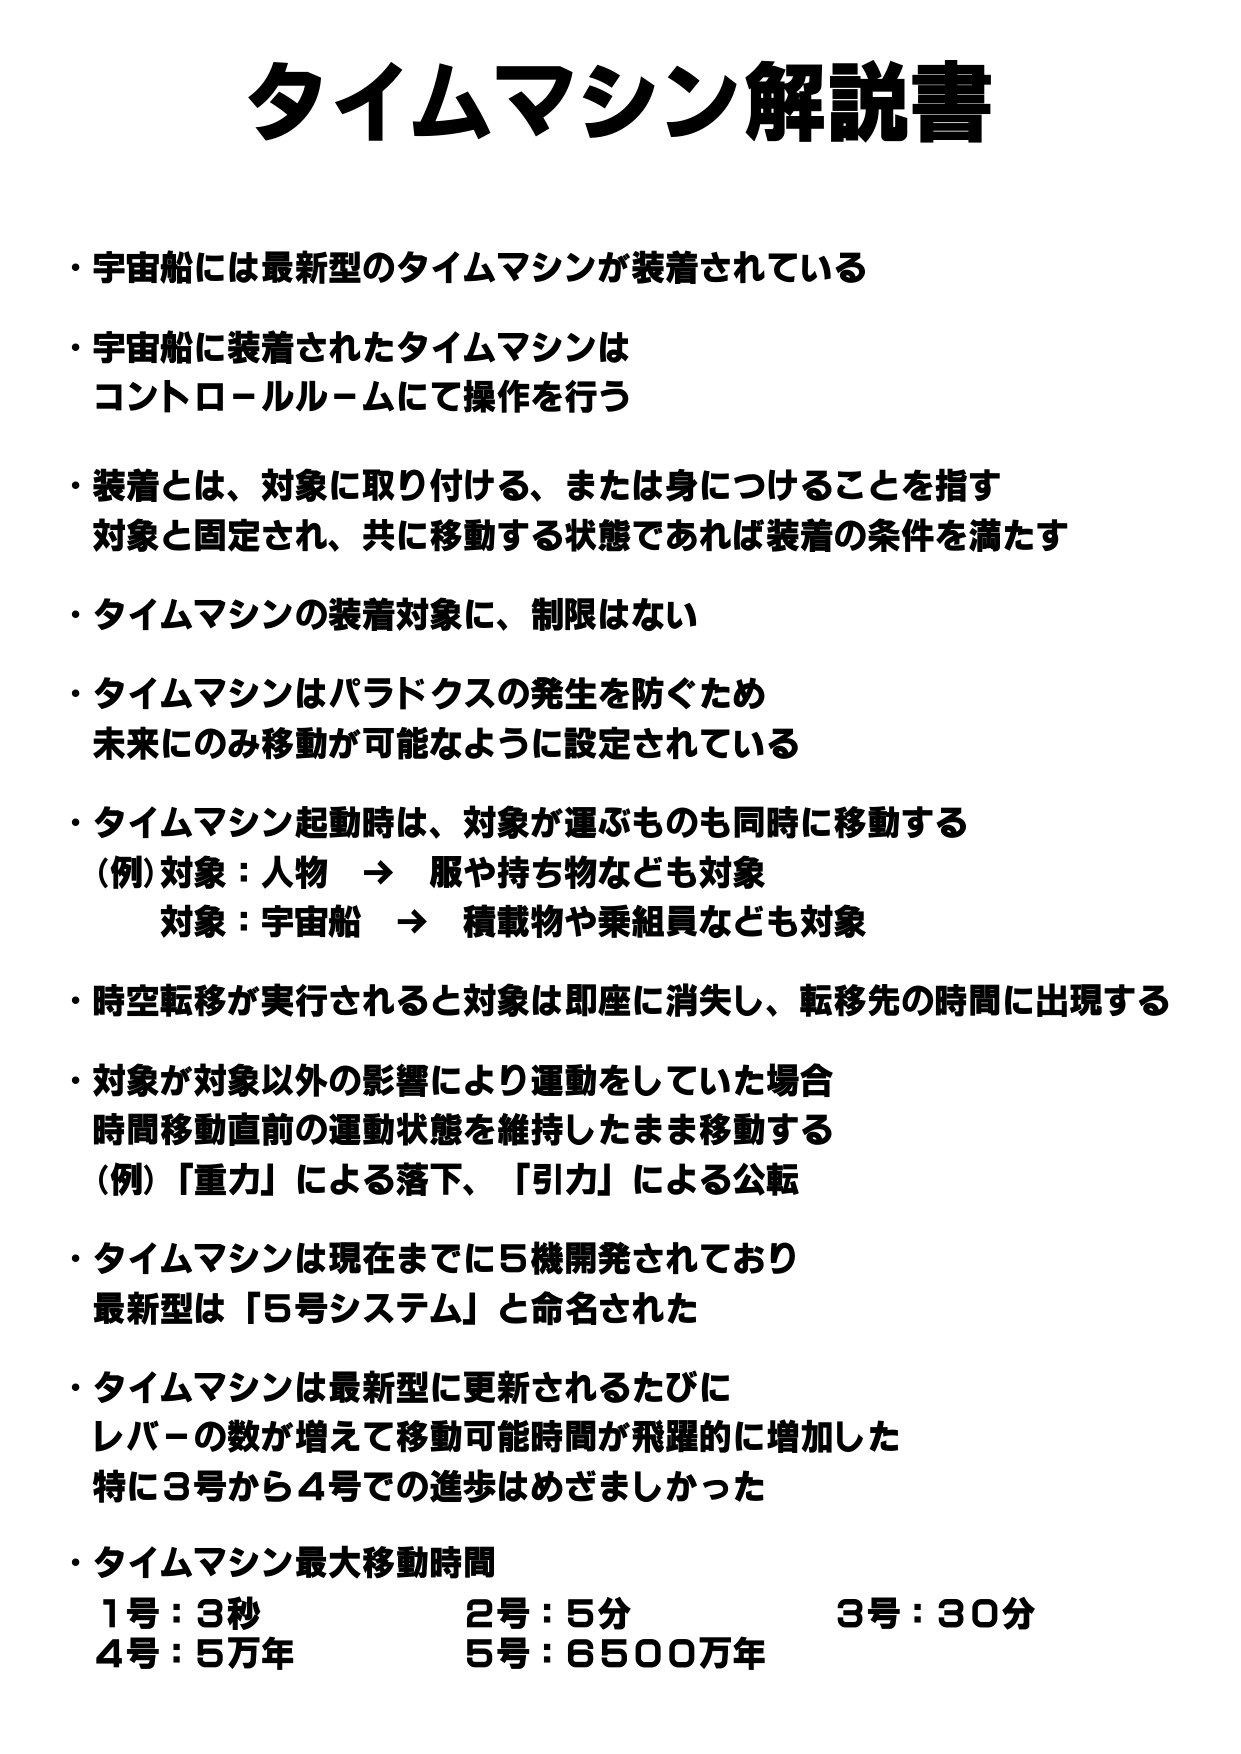
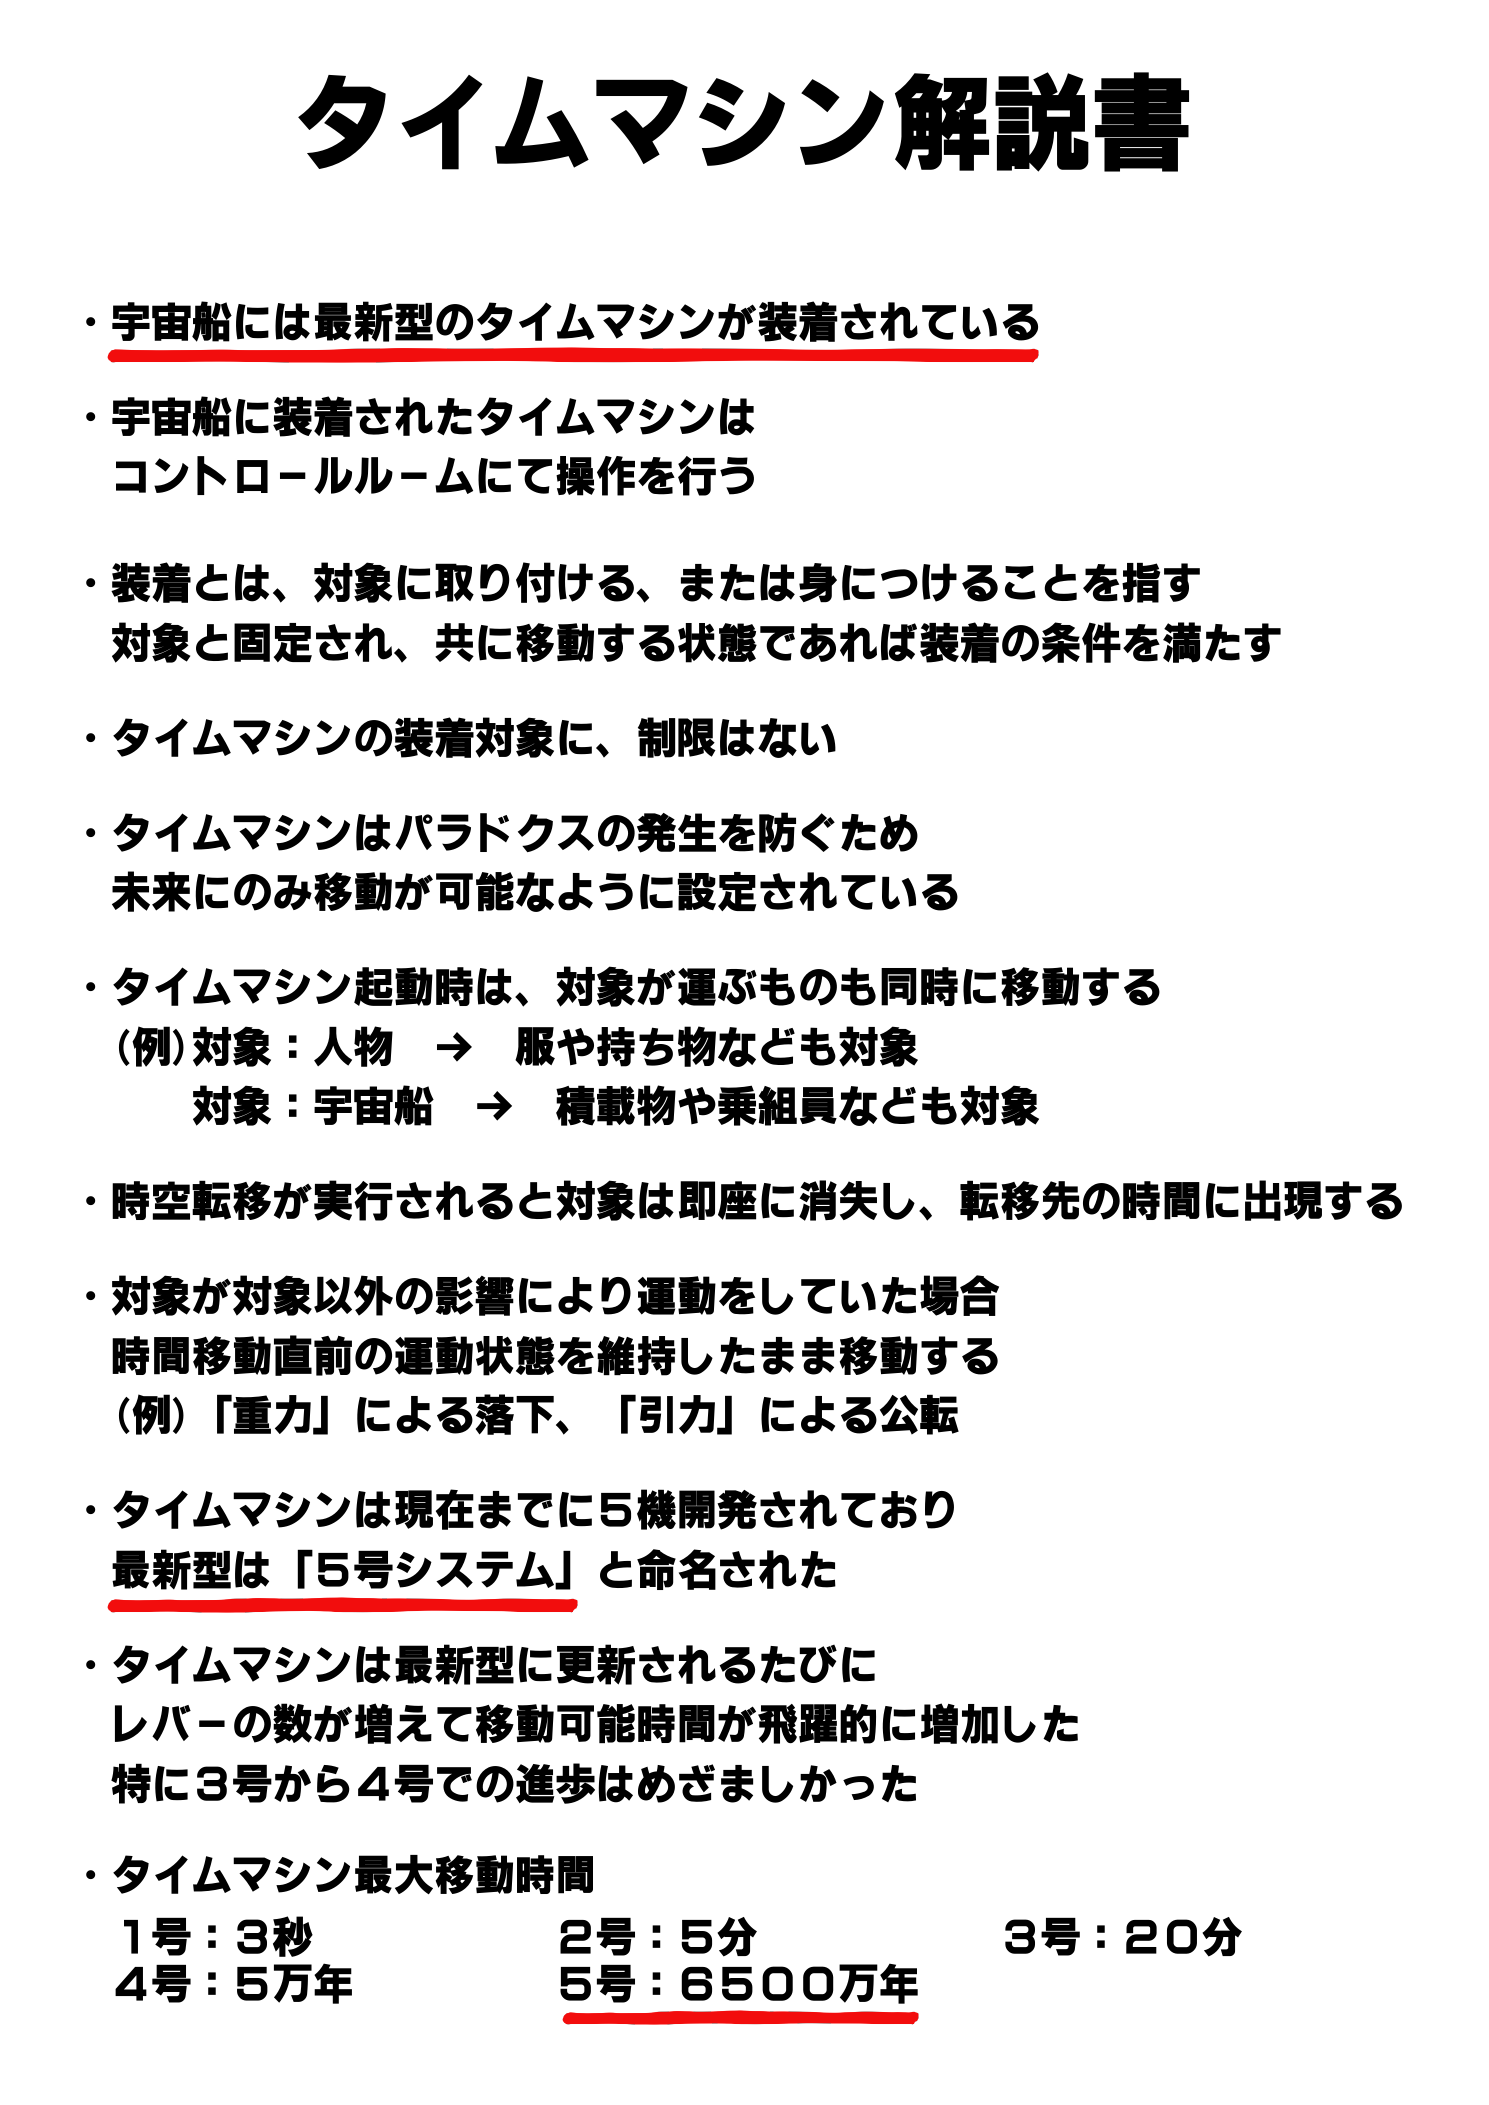
Replace time machine guide

diff --git a/screen6.html b/screen6.html
@@ -23,7 +23,7 @@
       <header class="time-documents-heading section-shell reveal"><div><p class="section-kicker">RECOVERED FILES / 02</p><h2 id="time-documents-title">タイムマシン資料</h2></div><p>画像をクリック／タップすると<br>大きく表示できます</p></header>
       <div class="time-document-grid section-shell">
         <article class="time-document reveal"><header><span>DOCUMENT / 01</span><strong>タイムマシン起動方法</strong></header><button class="time-document-image" type="button" data-lightbox-src="assets/screen6/images/time-machine-procedure.png" data-lightbox-label="タイムマシン起動方法"><img src="assets/screen6/images/time-machine-procedure.png" alt="タイムマシンの装着、移動時間の指定、色レバーの操作と暗号表の解読方法を記した起動方法" loading="lazy"><span>拡大表示</span></button></article>
-        <article class="time-document reveal"><header><span>DOCUMENT / 02</span><strong>タイムマシン解説書</strong></header><button class="time-document-image" type="button" data-lightbox-src="assets/screen6/images/time-machine-guide.png" data-lightbox-label="タイムマシン解説書"><img src="assets/screen6/images/time-machine-guide.png" alt="宇宙船搭載タイムマシンの機能と各世代の最大移動時間を説明する解説書" loading="lazy"><span>拡大表示</span></button></article>
+        <article class="time-document reveal"><header><span>DOCUMENT / 02</span><strong>タイムマシン解説書</strong></header><button class="time-document-image" type="button" data-lightbox-src="assets/screen6/images/time-machine-guide.png?v=20260727-2" data-lightbox-label="タイムマシン解説書"><img src="assets/screen6/images/time-machine-guide.png?v=20260727-2" alt="宇宙船搭載タイムマシンの機能、装着条件、各世代の最大移動時間を説明する解説書" loading="lazy"><span>拡大表示</span></button></article>
       </div>
     </section>
 
